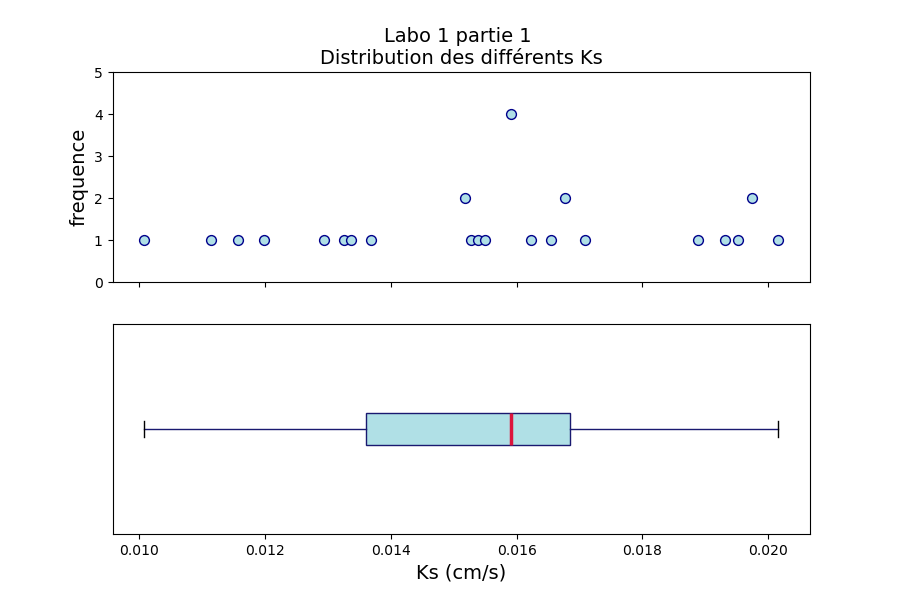
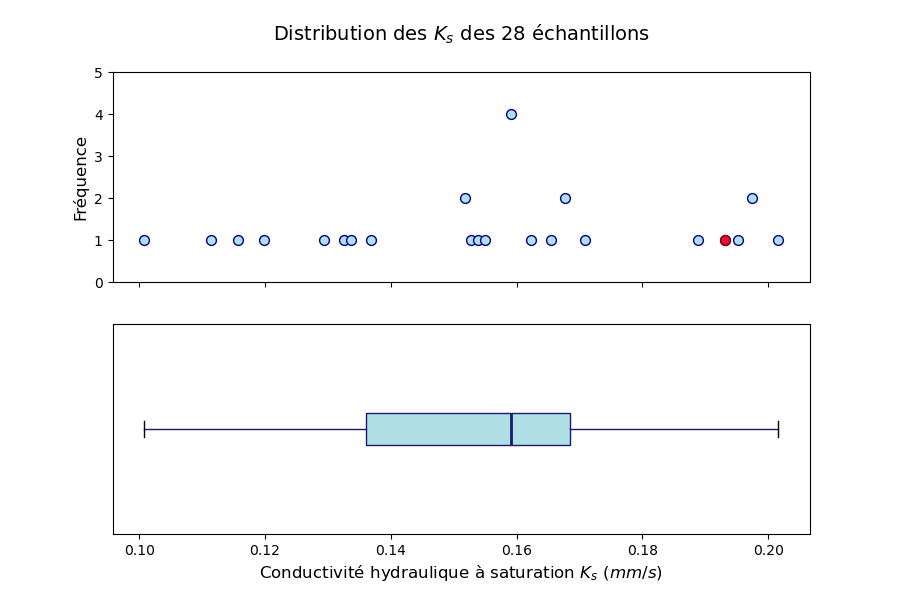
renommé des figures

diff --git a/résultats.py b/résultats.py
@@ -7,23 +7,30 @@ from données import Données
 équipe = 8
 
 
-# Ks Graphique de points et diagramme en boîte
+# Distribution des Ks des 28 échantillons
 def figure_1():
     """graphique de points et diagramme en boite"""
     Ks_unique, counts = np.unique(
-        calculs.ConductivitéHydraulique().Ks["Ks (cm/s)"], return_counts=True
+        calculs.ConductivitéHydraulique().Ks["Ks (mm/s)"], return_counts=True
     )
-    medianprops = dict(linestyle="-", linewidth=2.5, color="crimson")
-
+    medianprops = dict(linestyle="-", linewidth=2, color="midnightblue")
     boxprops = dict(color="midnightblue", facecolor="powderblue")
     whiskerprops = dict(color="midnightblue")
-
-    fig1, ax = plt.subplots(2, figsize=(9, 6), sharex=True)
+    fig, ax = plt.subplots(2, figsize=(9, 6), sharex=True)
     ax[0].scatter(Ks_unique, counts, 50, color="powderblue", edgecolor="darkblue")
+    ax[0].scatter(
+        calculs.ConductivitéHydraulique().Ks.loc[8],
+        1,
+        50,
+        color="crimson",
+        edgecolor="darkred",
+    )
     ax[0].set_ybound(0, 5)
-    ax[0].set_ylabel("frequence", fontsize=14)
-    ax[0].set_title("Labo 1 partie 1 \nDistribution des différents Ks", fontsize=14)
-
+    ax[0].set_ylabel("Fréquence", fontsize=12)
+    ax[0].set_title(
+        "Distribution des $K_s$ des 28 échantillons\n",
+        fontsize=14,
+    )
     ax[1].boxplot(
         calculs.ConductivitéHydraulique().Ks,
         vert=False,
@@ -32,15 +39,16 @@ def figure_1():
         boxprops=boxprops,
         whiskerprops=whiskerprops,
     )
-    ax[1].set_xlabel("Ks (cm/s)", fontsize=14)
+    ax[1].set_xlabel(
+        "Conductivité hydraulique à saturation $K_s$ $(mm/s)$", fontsize=12
+    )
     ax[1].get_yaxis().set_visible(False)
     plt.savefig("figures/fig1.png")
 
 
-# Ks diagramme en barres Ks
+# Valeurs de Ks des 28 échantillons
 def figure_2():
-    """Diagramme à barres"""
-    Ks = calculs.ConductivitéHydraulique().Ks["Ks (cm/s)"]
+    Ks = calculs.ConductivitéHydraulique().Ks["Ks (mm/s)"]
     fig, ax = plt.subplots(figsize=(9, 6))
     ax.bar(
         np.arange(1, len(Ks) + 1), Ks, color="powderblue", edgecolor="cornflowerblue"
@@ -49,30 +57,19 @@ def figure_2():
         équipe,
         Ks[équipe],
         color="crimson",
-        label="K$_s$ = {0:0.4f} cm/s".format(Ks[équipe]),
+        edgecolor="darkred",
+        label="K$_s$ = {0:0.3f} mm/s".format(Ks[équipe]),
     )
     ax.set_title(
-        "Labo 1 partie 1 \nConstante de conductivité hydraulique à saturation (K$_s$)",
+        "Valeurs de $K_s$ des 28 échantillons",
         fontsize=14,
     )
-    ax.set_xlabel("équipe", fontsize=14)
+    ax.set_xlabel("Échantillon", fontsize=12)
     ax.set_xticks(np.arange(1, len(Ks) + 1))
     ax.tick_params(axis="x", which="both", labelsize="small")
-    ax.set_ylabel("$K_s$" + " (cm/s)", fontsize=14)
-    ax.set_ylim(bottom=0.005, top=0.022)
-    ax.axhline(0.0157, linestyle="--", color="cornflowerblue", label="moyenne")
+    ax.set_ylabel("Conductivité hydraulique à saturation $K_s$ $(mm/s)$", fontsize=12)
     ax.legend(loc="upper left", frameon=False, fontsize=12)
-    line_break = dict(
-        marker=[(-1, -0.5), (1, 0.5)],
-        markersize=12,
-        linestyle="none",
-        color="k",
-        mec="k",
-        mew=1,
-        clip_on=False,
-    )
-    ax.plot([0.02], transform=ax.transAxes, **line_break)
-    ax.plot([0.03], transform=ax.transAxes, **line_break)
+    ax.set_ylim(bottom=0.00, top=0.25)
     plt.savefig("figures/fig2.png")
 
 
@@ -83,13 +80,12 @@ def figure_3a():
     y = calculs.van_Genuchten(
         x, *(calculs.CourbeDeRétention().paramètres_optimaux.loc[équipe])
     )
-    ax.semilogx(x, y)
     ax.semilogx(Données().potentiel_matriciel, Données().teneur_en_eau[équipe - 1], ".")
-    ax.set_title(
-        "Labo 1 partie 2\n" + f"Courbe de rétention équipe {équipe}", fontsize=14
-    )
-    ax.set_xlabel(r"potentiel matriciel $\psi$  (cm $H_2O$)", fontsize=14)
-    ax.set_ylabel("\n" + r"teneur en eau $\theta$", fontsize=14)
+    ax.semilogx(x, y, color="crimson")
+    ax.set_title(f"Courbe de rétention d'eau de l'échantillon {équipe}", fontsize=14)
+    ax.set_xlabel(r"Potentiel matriciel $\Psi$  ($cm$ $H_2O$)", fontsize=12)
+    ax.set_ylabel("\n" + r"Teneur en eau $\theta$ ($cm^3/cm^3$)", fontsize=12)
+    ax.set_ylim(bottom=-0.02, top=0.51)
     plt.savefig("figures/fig3a.png")
 
 
@@ -114,14 +110,15 @@ def figure_3b():
             markersize=0.75,
         )
         ax.semilogx(x, y(i), color="powderblue", linewidth=0.75)
-    ax.semilogx(x, y(équipe))
     ax.semilogx(h, theta[équipe - 1], ".")
+    ax.semilogx(x, y(équipe), color="crimson")
     ax.set_title(
-        "Labo 1 partie 2\n" + f"Courbe de rétention équipe {équipe}, comparée",
+        f"Courbe de rétention d'eau de l'échantillon {équipe}, comparée",
         fontsize=14,
     )
-    ax.set_xlabel(r"potentiel matriciel $\psi$  (cm $H_2O$)", fontsize=14)
-    ax.set_ylabel("\n" + r"teneur en eau $\theta$", fontsize=14)
+    ax.set_xlabel(r"Potentiel matriciel $\Psi$  ($cm$ $H_2O$)", fontsize=12)
+    ax.set_ylabel("\n" + r"Teneur en eau $\theta$ ($cm^3/cm^3$)", fontsize=12)
+    ax.set_ylim(bottom=-0.02, top=0.51)
     plt.savefig("figures/fig3b.png")
 
 
@@ -146,11 +143,7 @@ def figure_5():
     m = droite.loc[équipe].iloc[0]
     b = droite.loc[équipe].iloc[1]
     r2 = droite.loc[équipe].iloc[2]
-    x = np.linspace(
-        w[3] - 1,
-        w[0] + 1,
-        100,
-    )
+    x = np.linspace(w[3] - 1, w[0] + 1, 100)
     fig, ax = plt.subplots()
     ax.plot(
         w,
@@ -159,7 +152,7 @@ def figure_5():
     )
     ax.plot(
         x,
-        calculs.droite_de_liquidation(m, w, b),
+        calculs.droite_de_liquidation(m, x, b),
         label="$y = {0:0.4f} x + {1:0.4f}$ \n $R^2 = {2:0.6f}$".format(m, b, r2),
     )
     ax.legend()
@@ -184,9 +177,12 @@ def tableaux_excel():
         calculs.ConductivitéHydraulique().Ks.describe().to_excel(
             writer, sheet_name="Ks stats"
         )
-        calculs.CourbeDeRétention().paramètres_optimaux.join(
-            calculs.CourbeDeRétention().capacité_au_champ
-        ).to_excel(writer, sheet_name="paramètres courbe rétention")
+        calculs.CourbeDeRétention().paramètres_optimaux.to_excel(
+            writer, sheet_name="paramètres courbe rétention"
+        )
+        calculs.CourbeDeRétention().capacité_au_champ.to_excel(
+            writer, sheet_name="capacité au champ"
+        )
         calculs.LimiteDeLiquidité().régression_linéaire.to_excel(
             writer, sheet_name="droite régression"
         )

diff --git a/calculs.py b/calculs.py
@@ -11,7 +11,11 @@ class ConductivitéHydraulique:
         def calculer_Ks_moyen(débits_Q: list):
             surface = pi * (échantillon.diamètre / 2) ** 2
             Ks_moyen = (
-                (débits_Q.mean()) / surface * échantillon.longueur / échantillon.delta_H
+                10
+                * (débits_Q.mean())
+                / surface
+                * échantillon.longueur
+                / échantillon.delta_H
             )
             return Ks_moyen
 
@@ -22,7 +26,7 @@ class ConductivitéHydraulique:
             return Ks
 
         self.Ks = DataFrame(
-            obtenir_Ks_de_chaque_équipe(), index=range(1, 29), columns=["Ks (cm/s)"]
+            obtenir_Ks_de_chaque_équipe(), index=range(1, 29), columns=["Ks (mm/s)"]
         )
 
 
@@ -83,8 +87,8 @@ def van_Genuchten(h, qr, qs, a, m, n):
 
 
 def droite_de_liquidation(m, w, b):
-    log10_nombre_de_coups = m * w + b
-    return log10_nombre_de_coups
+    droite = m * w + b
+    return droite
 
 
 def convertir_kiloPascals_en_cm_H2O(pression):

diff --git a/test.py b/test.py
@@ -1,0 +1,4 @@
+from résultats import *
+
+figure_3a()
+figure_3b()
